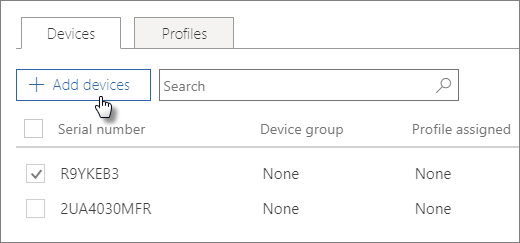
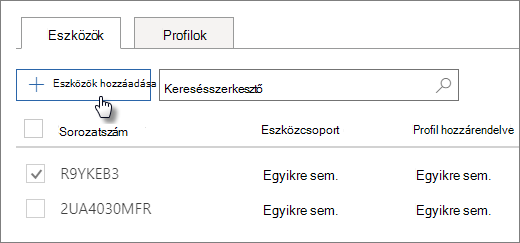
commit translated contents

diff --git a/microsoft-365/business/create-and-edit-autopilot-devices.md b/microsoft-365/business/create-and-edit-autopilot-devices.md
@@ -25,13 +25,13 @@ search.appverid:
 - MET150
 - MOE150
 ms.assetid: 0f7b1d7c-4086-4331-8534-45d7886f9f34
-description: Megtudhatja, hogy miként tölthet fel eszközöket az AutoPilottal a Microsoft 365 Business Premiumban. A profilokat hozzárendelheti egy eszközhöz vagy eszközcsoporthoz.
-ms.openlocfilehash: 506ff44e3cb6656b19174e82688b5af141ea2b79
-ms.sourcegitcommit: 53acc851abf68e2272e75df0856c0e16b0c7e48d
+description: Megtudhatja, hogy miként tölthet fel eszközöket az AutoPilottal a Microsoft 365 Vállalati prémium verzió. A profilokat hozzárendelheti egy eszközhöz vagy eszközcsoporthoz.
+ms.openlocfilehash: ae3a760db4b94aac50301685a0c4f468e46ec8e9aa907a1b6fb35e03a9e541f0
+ms.sourcegitcommit: a1b66e1e80c25d14d67a9b46c79ec7245d88e045
 ms.translationtype: MT
 ms.contentlocale: hu-HU
-ms.lasthandoff: 04/02/2021
-ms.locfileid: "51578487"
+ms.lasthandoff: 08/05/2021
+ms.locfileid: "53867039"
 ---
 # <a name="create-and-edit-autopilot-devices"></a>AutoPilot-eszközök létrehozása és szerkesztése
 
@@ -41,11 +41,11 @@ Az eszközök [](add-autopilot-devices-and-profile.md) feltöltéséhez használ
   
 Az eszközöknek meg kell felelnie az alábbi követelményeknek:
   
-- Windows 10, 1703-as vagy újabb verzió
+- Windows 10 1703-as vagy újabb verzió
     
-- Új eszközök, amelyek még nem voltak használhatók a Windowsban
+- Új eszközök, amelyeken még nem Windows nem voltak bevetve
 
-1. A Microsoft 365 Felügyeleti központban válassza az **Eszközök** \> **AutoPilot lehetőséget.**
+1. Az eszköz Microsoft 365 Felügyeleti központ az **Eszközök** \> **AutoPilot lehetőséget.**
   
 2. Az **AutoPilot lapon** válassza  az Eszközök lap \> **Eszközök hozzáadása lapját.**
     
@@ -57,7 +57,7 @@ Az eszközöknek meg kell felelnie az alábbi követelményeknek:
     
 ## <a name="assign-a-profile-to-a-device-or-a-group-of-devices"></a>Profil társítása egy eszközhöz vagy az eszközök egy csoportjához
 
-1. A **Windows előkészítése lapon**  válassza az Eszközök lapot, és jelölje be egy vagy több eszköz jelölőnégyzetét. 
+1. Az Előkészítés **Windows** kattintson az Eszközök  fülre, és jelölje be egy vagy több eszköz jelölőnégyzetét. 
     
 2. Az **Eszköz** panelen válasszon egy profilt a **Hozzárendelt profil** legördülő listából. 
     

diff --git a/microsoft-365/business/support/transition-csp-subscription.md b/microsoft-365/business/support/transition-csp-subscription.md
@@ -15,12 +15,12 @@ localization_priority: Normal
 audience: microsoft-business
 keywords: Microsoft 365 Vállalati, Microsoft 365, SMB, áttérés a csp-előfizetésre
 ms.date: 11/01/2017
-ms.openlocfilehash: 47b65b2de9db0fd27e29272937bab2041eb67300
-ms.sourcegitcommit: 7dc3b4dec05299abb4290a6e3d1ebe0fdc622ed7
+ms.openlocfilehash: c35cb3b78c4fe2cebc8308b34ceef3decd346b3db298ce5fb56abc8cf205e69d
+ms.sourcegitcommit: a1b66e1e80c25d14d67a9b46c79ec7245d88e045
 ms.translationtype: MT
 ms.contentlocale: hu-HU
-ms.lasthandoff: 07/10/2021
-ms.locfileid: "53363819"
+ms.lasthandoff: 08/05/2021
+ms.locfileid: "53867123"
 ---
 # <a name="transition-a-microsoft-365-business-csp-subscription"></a>Áttérés vállalati Microsoft 365-előfizetésre
 
